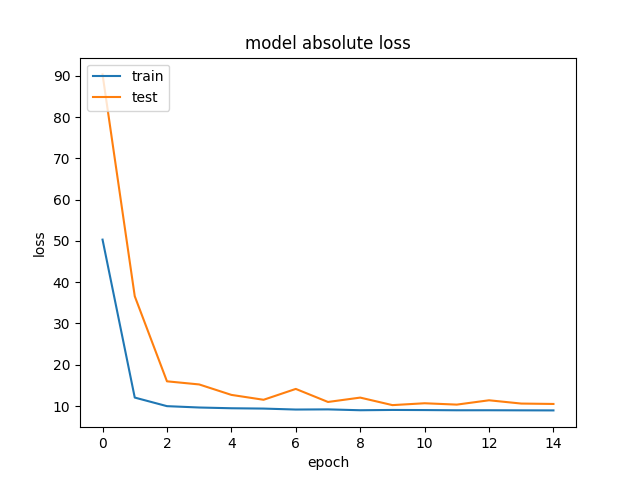
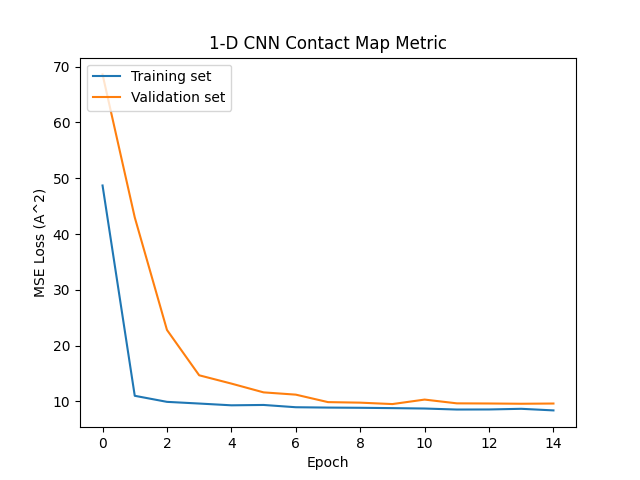
rosetta 1000 epochs

diff --git a/cnn.py b/cnn.py
@@ -24,7 +24,7 @@ from math import sqrt
 from data_entry import data_entry
 from ptn_io import isfileandnotempty, getfileswithname
 from grid_point import grid_point
-from geo import geo_alignpoints
+from geo import geo_alignpoints, geo_distmat_to3d
 
 import matplotlib.pyplot as plt
 
@@ -256,7 +256,7 @@ def sample_gen(files, feature_set, atom_type, atom_type_encoder, atom_pos, atom_
 
 # This is almost like sample_gen, except it is a function instead of a generator function. This is used for generating the validation data before training the CNN. It generates the validation samples for all three of the metrics.
 def sample_loader(files, feature_set_, atom_type, atom_type_encoder, atom_pos, atom_pos_encoder, energy_scores, x_min, y_min, z_min, x_max, y_max, z_max, fdir='ptndata_10H/'):
-
+#if True:
 	y_rosetta = []
 	y_mse = []
 	y_dm = []
@@ -266,7 +266,7 @@ def sample_loader(files, feature_set_, atom_type, atom_type_encoder, atom_pos, a
 		a = grid2logical(entry.mat)
 		b = grid2atomtype(entry.mat, atom_type, atom_type_encoder)
 		c = grid2atom(entry.mat, atom_pos, atom_pos_encoder)
-
+#
 		#y = np.reshape(y, (len(y), len(y[0][0]), len(y[0][0])))
 		#y = y.astype(float)
 		y_rosetta.append(energy_scores.loc['ptndata_10H/' + file]['rosetta_score'])
@@ -283,7 +283,7 @@ def sample_loader(files, feature_set_, atom_type, atom_type_encoder, atom_pos, a
 	y_mse = np.array(y_mse)
 	y_mse = y_mse.reshape(-1,1)	
 
-	y_dm = np.reshape(y_dm, (len(y_dm), len(y_dm[0]), len(y_dm[0][0])))
+	y_dm = np.reshape(y_dm, (len(y_dm), len(y_dm[0][0]), len(y_dm[0][0])))
 	y_dm = y_dm.astype(float)
 
 	return feature_set_, y_rosetta, y_mse, y_dm
@@ -298,18 +298,19 @@ def conv1d_primary_seq_dm(fdir='ptndata_1dconv/'):
 #if True:
 	# Number of atoms is set to a hard cut off so the convolution network has a constant size 
 	NUMBER_OF_AA = 11
+	NUMBER_OF_AA2 = NUMBER_OF_AA
 	#
 	start_time = time()
 	fdir = '/Users/ethanmoyer/Projects/data/ptn/ptndata_1dconv/'
 	files = getfileswithname(fdir, 'obj')
-	files = [file for file in files if pickle.load(open(fdir + file, 'rb')).dm.shape == (22, 22) and len(pickle.load(open(fdir + file, 'rb')).one_hot_features) == NUMBER_OF_AA]
+	files = [file for file in files if pickle.load(open(fdir + file, 'rb')).dm.shape == (NUMBER_OF_AA2, NUMBER_OF_AA2) and len(pickle.load(open(fdir + file, 'rb')).one_hot_features) == NUMBER_OF_AA]
 	#random.shuffle(files)
 #
 	total_samples = len(files)
 	files = files[:total_samples]
 	validation_split = 0.2
 #
-#if True:
+#
 	training_samples = int(total_samples * (1 - validation_split))
 	validation_samples = int(total_samples * validation_split)
 #
@@ -333,59 +334,94 @@ def conv1d_primary_seq_dm(fdir='ptndata_1dconv/'):
 			else:
 				sample_atom_list += row.tolist()
 		feature_set[i] = np.array(sample_atom_list).reshape(-1, 1)
-#if True:
+#
 	feature_set = np.array(feature_set)
 	input_shape = feature_set.shape
 	#
 	y = np.reshape(y, (len(y), len(y[0]), len(y[0])))
 #
-	#y = y.astype(float)
-	#output_shape = y.shape
-#
-	model = cnn.generate_model_contact_map_1d(input_shape, (22, 22))
+	model = cnn.generate_model_contact_map_1d(input_shape, (NUMBER_OF_AA2, NUMBER_OF_AA2))
 
 	early_stopping = EarlyStopping(patience=5)
-	history = model.fit(feature_set, y, batch_size=10, epochs=100, verbose=1, validation_split=0.2, callbacks=[early_stopping])
+	datasetsize = []
+	loss_train = []
+	loss_test = []
+	rmsd_train = []
+	rmsd_test = []
+	for i in range(100, 1000, 100):
+		X = feature_set[:i]
+		y_ = y[:i]
 
+		X_train, X_test, y_train, y_test = train_test_split(X, y_, test_size=0.2)
 
-	data = pd.DataFrame({'abs_loss': [history.history['loss']], 'abs_val_loss': [history.history['val_loss']]})
-	data.to_csv('figures/ptndata_1dconv.csv')
-	plt.plot(history.history['loss'])
-	plt.plot(history.history['val_loss'])
-	plt.title('model absolute loss')
-	plt.ylabel('loss')
-	plt.xlabel('epoch')
-	plt.legend(['train', 'test'], loc='upper left')
-	plt.savefig('figures/ptndata_1dconv_abs_loss.png')
-	plt.clf()
-	
-	y_act = y
-	y_pred = model.predict(feature_set)
+		datasetsize.append(len(X))
+		history = model.fit(X_train, y_train, batch_size=10, epochs=100, verbose=1, validation_data=(X_test, y_test), callbacks=[early_stopping])
 
-	y_pred = select_region_dm(y_pred, (NUMBER_OF_AA, NUMBER_OF_AA))
-	y_act = select_region_dm(y_act, (NUMBER_OF_AA, NUMBER_OF_AA))
+		loss_train.append(history.history['loss'][len(history.history['loss']) - 1])
+		loss_test.append(history.history['val_loss'][len(history.history['val_loss']) - 1])
 
-	pca = PCA(n_components=3)
+		y_pred_train = model.predict(X_train)
+		y_pred_test = model.predict(X_test)
 
-	coordinates_pred = [pca.fit_transform(elem) for elem in y_pred]
-	coordinates_act = [pca.fit_transform(elem) for elem in y_act]
+		#y_pred = select_region_dm(y_pred, (NUMBER_OF_AA, NUMBER_OF_AA))
+		#y_act = select_region_dm(y_act, (NUMBER_OF_AA, NUMBER_OF_AA))
 
-	coordinates_pred_aligned = [geo_alignpoints(coordinates_act[i], coordinates_pred[i]) for i in range(len(y_act))]
+		pca = PCA(n_components=3)
 
-	rms = [sqrt(mean_squared_error(coordinates_pred_aligned[i], coordinates_act[i])) for i in range(len(y_act)) ]
+		coordinates_pred = [geo_distmat_to3d(elem) for elem in y_pred_train]
+		coordinates_act = [geo_distmat_to3d(elem) for elem in y_train]
 
-	print(rms)
-	return model, history, feature_set, y_act, rms
+		coordinates_pred_aligned = [geo_alignpoints(coordinates_act[i], coordinates_pred[i]) for i in range(len(y_train))]
+
+		rmsd_train_ = [sqrt(mean_squared_error(coordinates_pred_aligned[i], coordinates_act[i])) for i in range(len(y_train)) ]
+
+		rmsd_train.append(np.mean(rmsd_train_))
+
+		coordinates_pred = [geo_distmat_to3d(elem) for elem in y_pred_test]
+		coordinates_act = [geo_distmat_to3d(elem) for elem in y_test]
+
+		coordinates_pred_aligned = [geo_alignpoints(coordinates_act[i], coordinates_pred[i]) for i in range(len(y_test))]
+
+		rmsd_test_ = [sqrt(mean_squared_error(coordinates_pred_aligned[i], coordinates_act[i])) for i in range(len(y_test)) ]
+		
+		rmsd_test.append(np.mean(rmsd_test_))
+
+	if True:
+		plt.plot(datasetsize, loss_train)
+		plt.plot(datasetsize, loss_test)
+		plt.plot(datasetsize, rmsd_train)
+		plt.plot(datasetsize, rmsd_test)
+		plt.legend(['Train MSE Loss', 'Validation MSE Loss', 'Train RSMD', 'Validation RSMD'], loc='upper right')
+		plt.title('1-D CNN metrics with increasing data set size')
+		plt.ylabel('MSE Loss (A^2), RMSD (A)')
+		plt.xlabel('Data set size')
+		plt.savefig('figures/ptndata_1dconv_summary_tsne.png')
+		plt.show()
+		plt.clf()
+
+	if False:
+		data = pd.DataFrame({'abs_loss': [history.history['loss']], 'abs_val_loss': [history.history['val_loss']]})
+		data.to_csv('figures/ptndata_1dconv.csv')
+		plt.plot(history.history['loss'])
+		plt.plot(history.history['val_loss'])
+		plt.title('1-D CNN Contact Map Metric')
+		plt.ylabel('MSE Loss (A^2)')
+		plt.xlabel('Epoch')
+		plt.legend(['Training set', 'Validation set'], loc='upper left')
+		plt.savefig('figures/ptndata_1dconv_abs_loss.png')
+		plt.clf()
+
+	return model, history, datasetsize, loss_train, loss_test, rmsd_train, rmsd_test
 
 def conv3d_tertiary_seq_rosetta_mse_dm(fdir='ptndata_10H/'):
-
+#if True:
 	start_time = time()
 	total_samples = 1000
 	validation_split = 0.2
-
+#
 	training_samples = int(total_samples * (1 - validation_split))
 	validation_samples = int(total_samples * validation_split)
-
+#
 	# Path name for storing all of the data
 	#fdir = 'ptndata_small/'
 	#fdir = '/Users/ethanmoyer/Projects/data/ptn/ptndata_10H/'
@@ -393,43 +429,43 @@ def conv3d_tertiary_seq_rosetta_mse_dm(fdir='ptndata_10H/'):
 	# Load all of the obj file types and sort them by file name
 	files = getfileswithname(fdir, 'obj')
 	files.sort()
-
+#
 	files = files[:total_samples]
-
+#
 	energy_scores = pd.read_csv(fdir + 'energy_local_dir.csv', index_col='file')
-
+#
 	files = [file for file in files if 'ptndata_10H/' + file in energy_scores.index]
-
+#
 	training_files = files[:training_samples]
 	validation_files = files[training_samples:]
-
+#
 	# Index for the four main types of atoms and None that will indexed when looping through each entry
 	atom_type = ['C', 'N', 'O', 'S', 'None']
 	atom_type_data = pd.Series(atom_type)
 	atom_type_encoder = np.array(pd.get_dummies(atom_type_data))
-
+#
 	print('Detemining positional atom types and smallest window size of the data ...')
 	# Loop through each file and make a list of all of the atoms present.
-
+#
 	atom_pos, x_min, y_min, z_min, x_max, y_max, z_max = load_feature_dimensions(files, fdir)
-
+#
 	# Format the position specific atom list so it can be used as one-hot encoding in the network
 	atom_pos_data = pd.Series(atom_pos)
 	atom_pos_encoder = np.array(pd.get_dummies(atom_pos_data))
-
+#
 	# Initialize the feature set
 	feature_set = np.array([[[[ [0] * (1 + len(atom_type) + len(atom_pos)) for i in range(x_min, x_max)] for j in range(y_min, y_max)] for k in range(z_min, z_max)] for q in range(1)])
-
+#
 	feature_set_ = np.array([[[[ [0] * (1 + len(atom_type) + len(atom_pos)) for i in range(x_min, x_max)] for j in range(y_min, y_max)] for k in range(z_min, z_max)] for q in range(validation_samples)])
-
+#
 	# Define input and output shape
 	input_shape = feature_set.shape
 	output_shape = (20, 20)
-
+#
 	#cnn = cnn()
-	#model = cnn.generate_model_rosetta_mse(input_shape)
-	model = cnn.generate_model_contact_map_3d(input_shape, output_shape)
-
+	model = cnn.generate_model_rosetta_mse(input_shape)
+	#model = cnn.generate_model_contact_map_3d(input_shape, output_shape)
+#
 	print('Generating validation data ...')
 	# Load all of the objects into the feature set 
 	feature_set, y_rosetta, y_mse, y_dm = sample_loader(validation_files, feature_set_, atom_type, atom_type_encoder, atom_pos, atom_pos_encoder, energy_scores, x_min, y_min, z_min, x_max, y_max, z_max, fdir)
@@ -451,4 +487,4 @@ def conv3d_tertiary_seq_rosetta_mse_dm(fdir='ptndata_10H/'):
 
 cnn = cnn()
 conv3d_tertiary_seq_rosetta_mse_dm('ptndata_10H/')
-#model, history, feature_set, y_act, rms = conv1d_primary_seq_dm()
+#model, history, datasetsize, loss_train, loss_test, rmsd_train, rmsd_test = conv1d_primary_seq_dm()

diff --git a/geo.py b/geo.py
@@ -2,9 +2,10 @@
 
 # Euler angles to roation matrix
 from scipy.spatial.transform import Rotation as R
-
 import scipy
 
+from sklearn.decomposition import PCA
+from sklearn.manifold import TSNE
 # Find dihedral angles
 #from pyrosetta.toolbox.numpy_utils import calc_dihedral
 
@@ -128,3 +129,18 @@ def geo_alignpoints(X, Y):
 
 	return Y
 
+
+def geo_distmat_to3d(distmat, method='tsne'):
+	distmat = (distmat + distmat.T)/2 - np.diag(distmat.diagonal())
+	if method=='pca': 
+		pca = PCA(n_components=3)
+		return pca.fit_transform(distmat)
+
+	elif method=='tsne':
+		# https://scikit-learn.org/stable/modules/generated/sklearn.manifold.TSNE.html
+		return TSNE(n_components = 3, perplexity=5.0, early_exaggeration=3.0, n_iter=5000, method='exact', init='pca').fit_transform(distmat)
+	elif method=='mds':
+		#https://scikit-learn.org/stable/modules/generated/sklearn.manifold.MDS.html
+		return MDS(n_components=3, metric=True, dissimilarity='precomputed').fit_transform(distmat)
+	else:
+		raise Exception('unsupported method');
